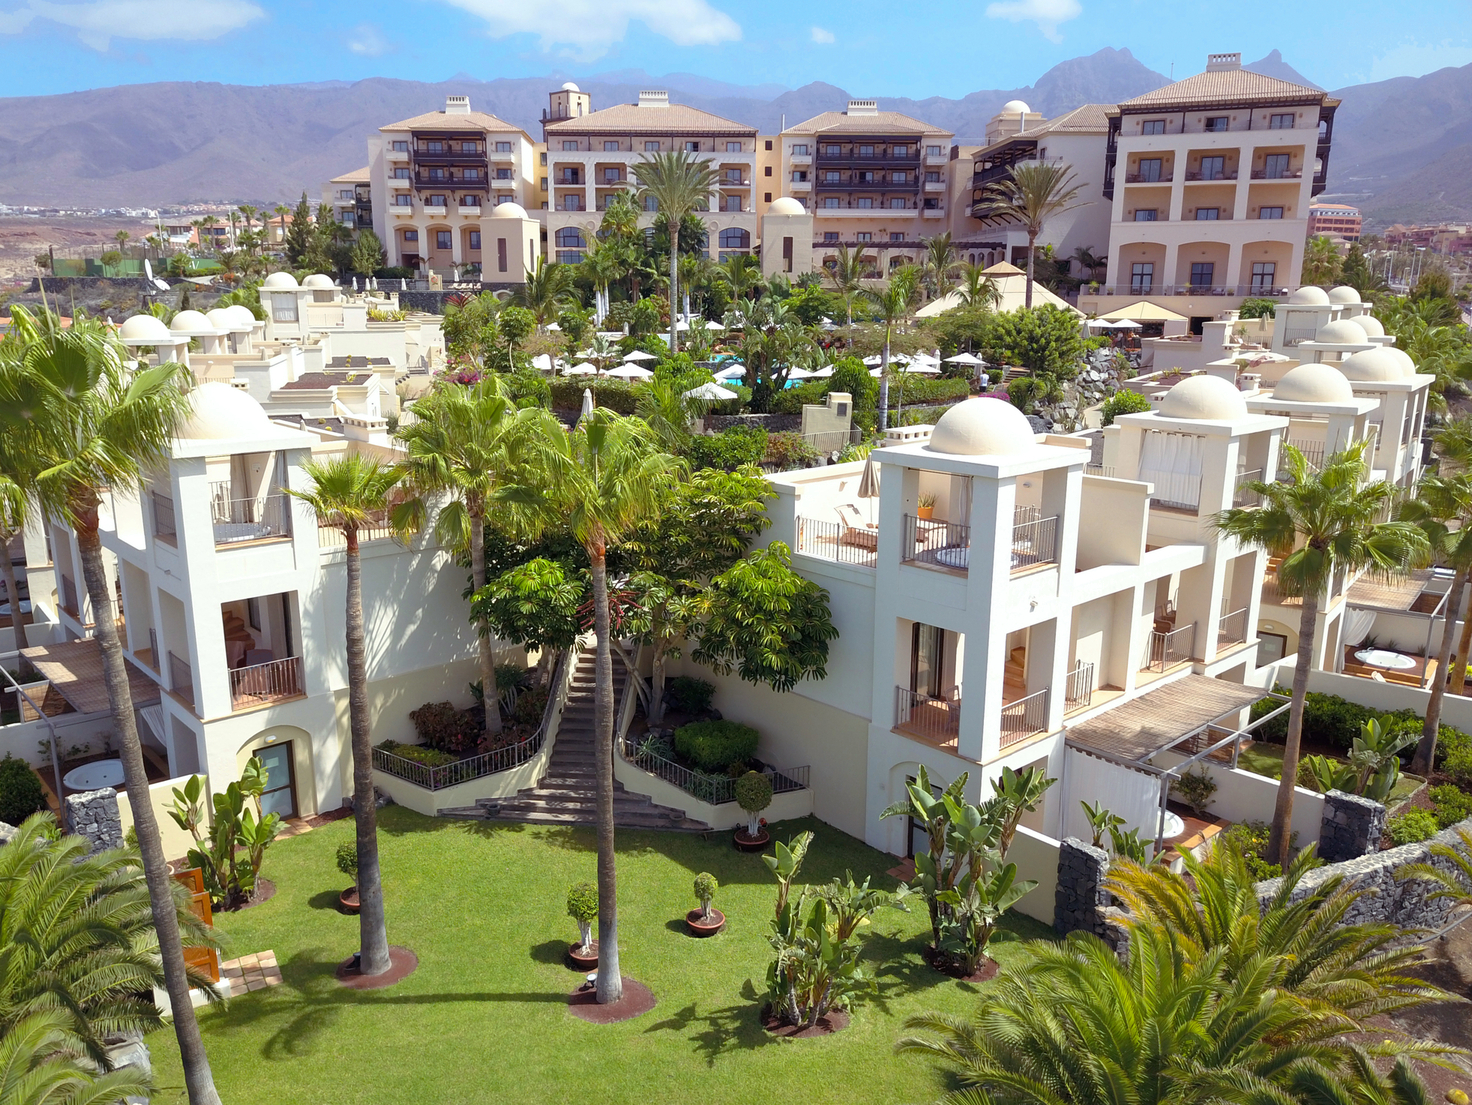
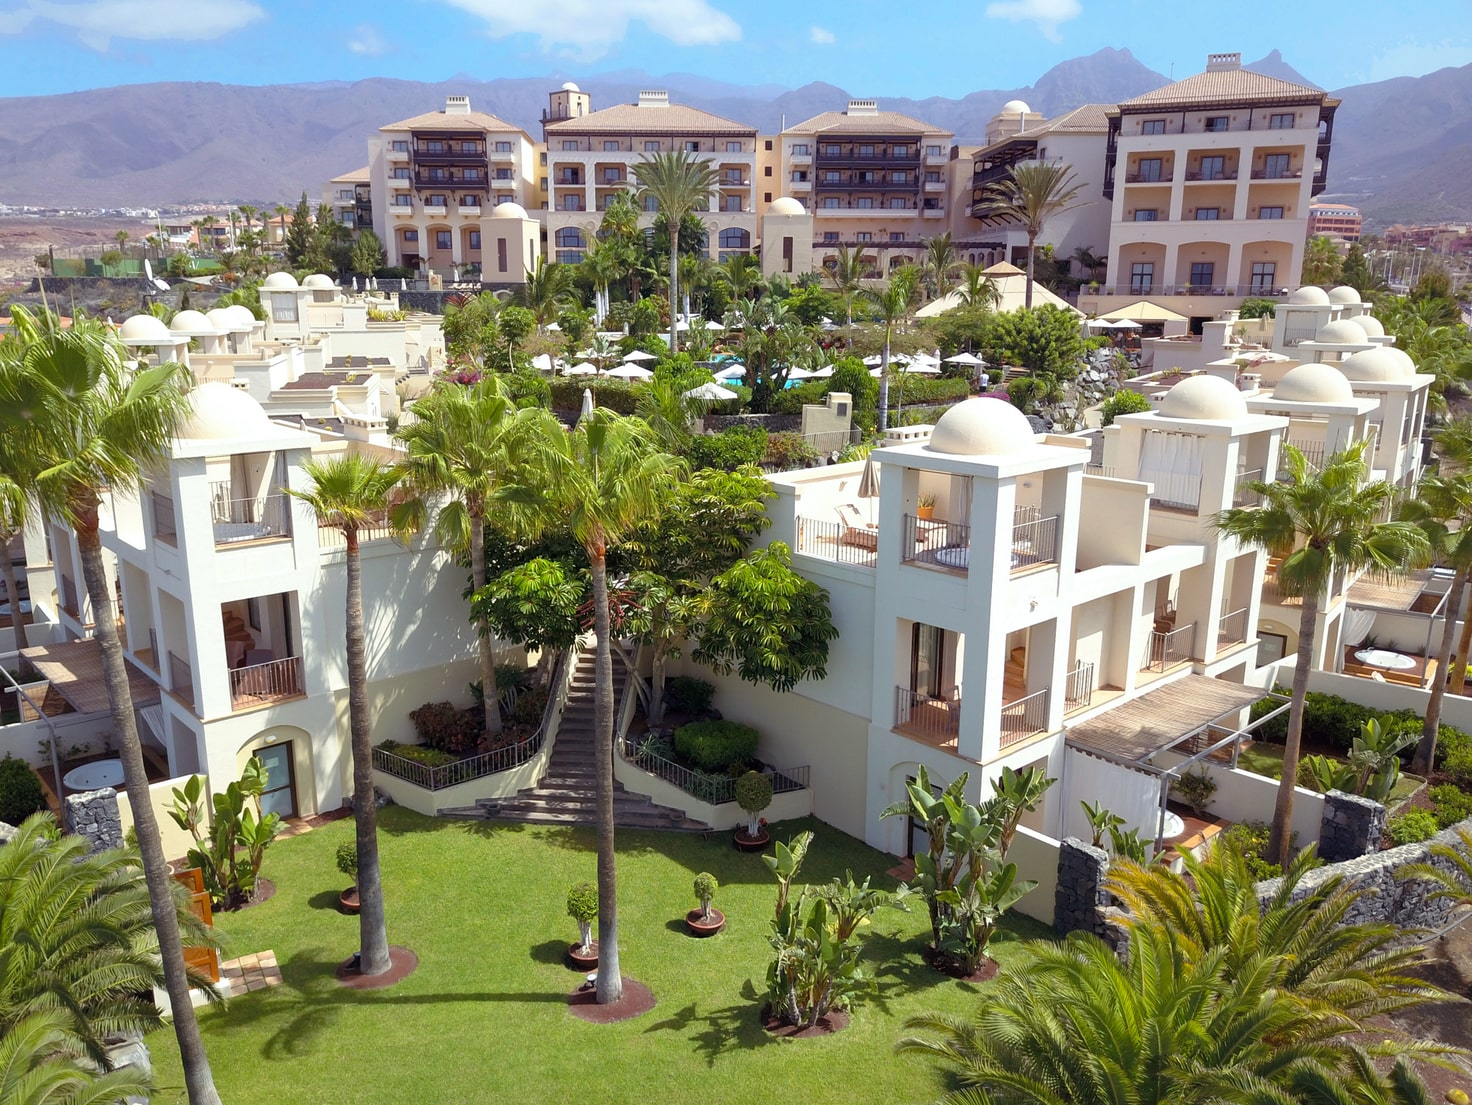
Reduced image sizes further and added gallery thumbs

diff --git a/layouts/partials/picture.html b/layouts/partials/picture.html
@@ -1,6 +1,6 @@
 <article>
     <a href="{{ .image }}" class="image">
-        <img src="{{ .image }}" alt="" />
+        <img src="{{ .thumb }}" alt="" />
     </a>
     <div class="caption"></div>
 </article>
